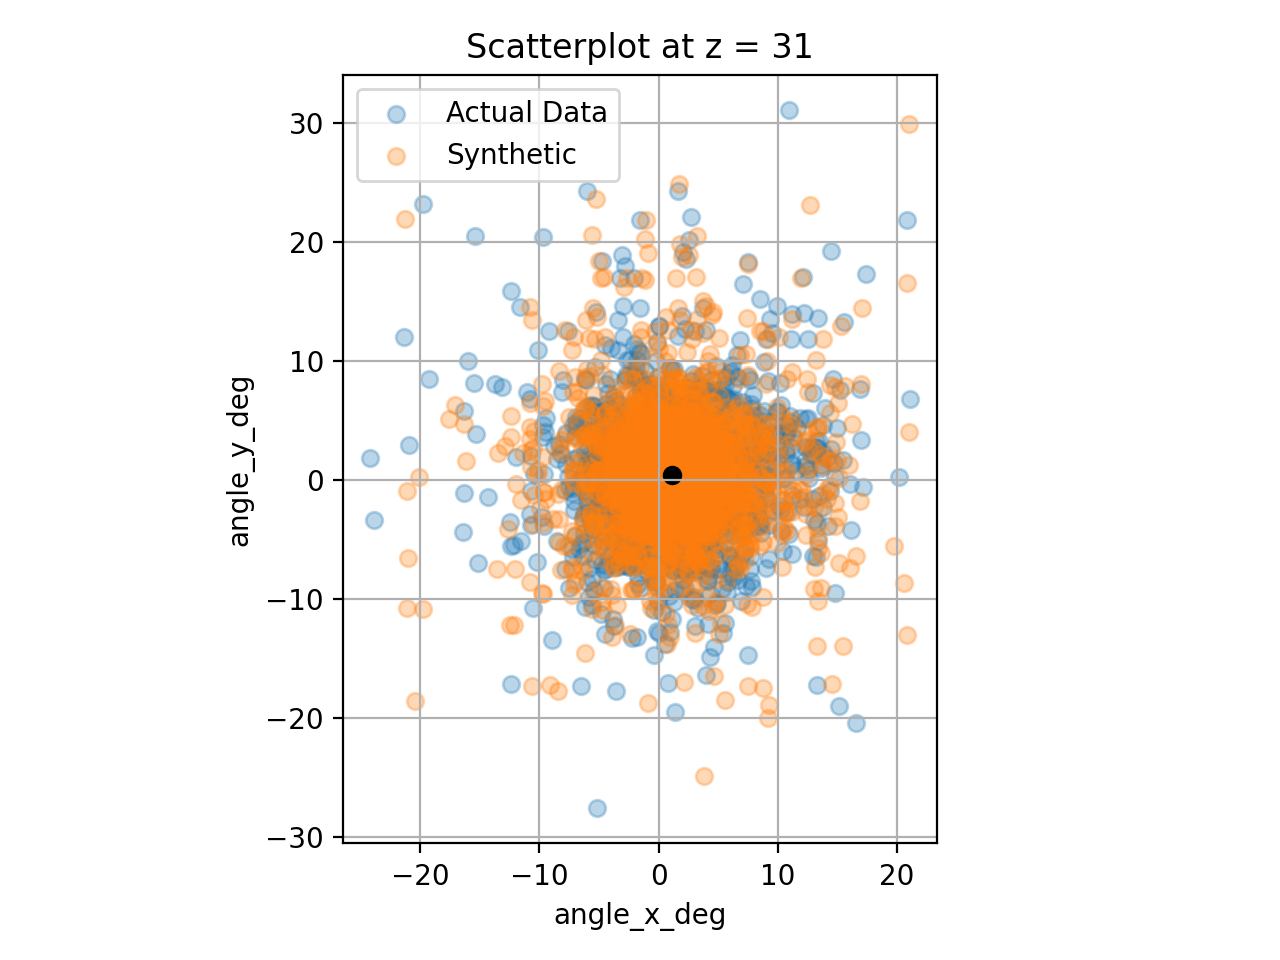
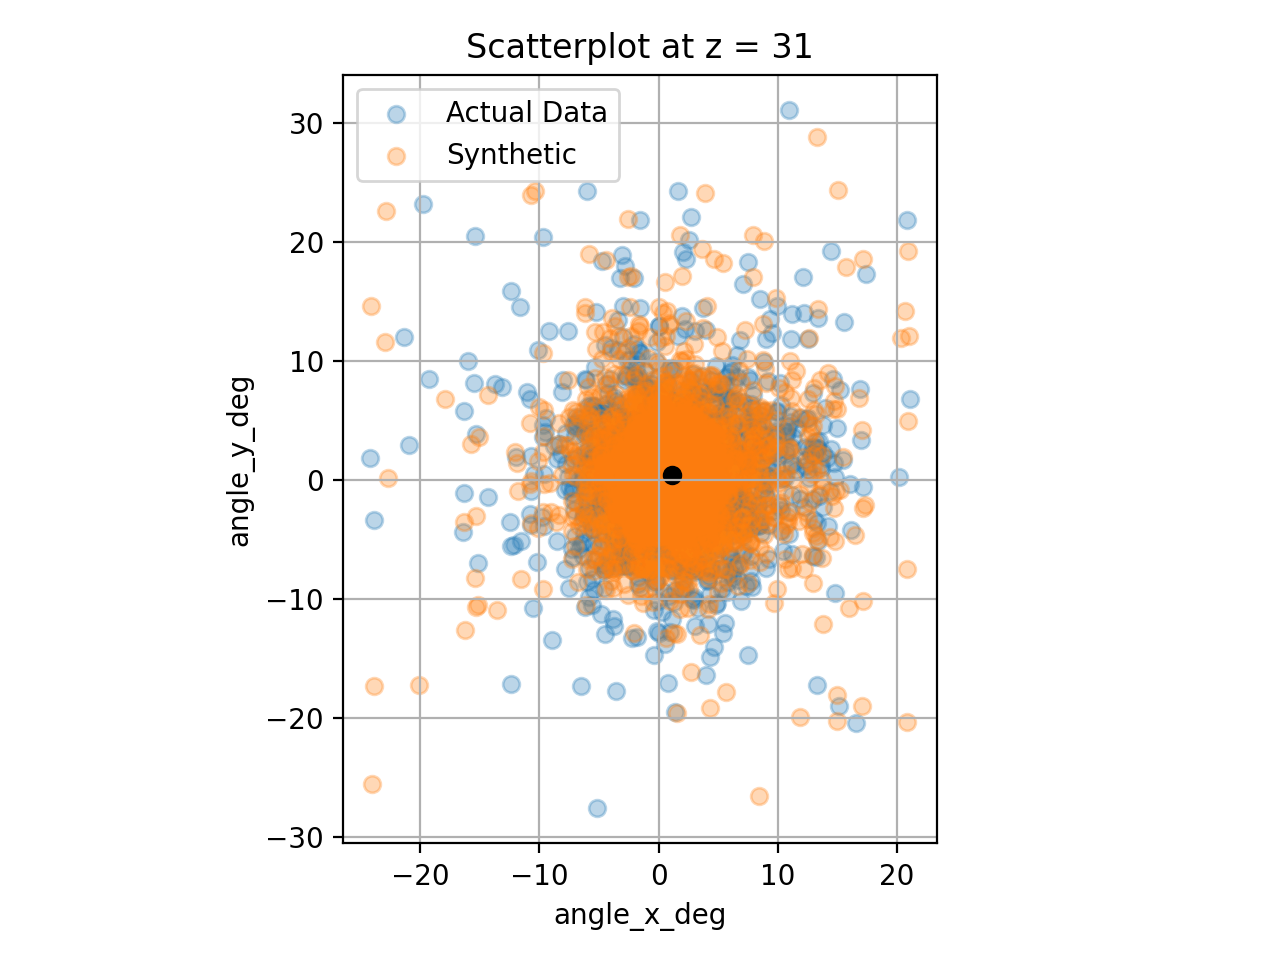
Optimized depth memory code
Replaced tau with rho, reduced depth memory to student method only

diff --git a/scrips/main.py b/scrips/main.py
@@ -74,19 +74,20 @@ for z in zz:    #Iterate by layer
     df_z = sort(df,z,par_1,par_2) #Nested list of x, y tilts for the layer
     for i,model in enumerate(cop_models): #Iterate by copula model
         data_sim_arr[i,z], cop = bivariate_copula(df_z,n_fibers,model=model) #Construct a copula for layer tilts      
-        if z > 1:    
-            mega_array = np.concatenate([data_sim_arr[i,z-1], data_sim_arr[i,z]], axis=1) #Array of tilts of previous and current layers
+        if z > 1 and i==1:    
+            #mega_array = np.concatenate([data_sim_arr[i,z-1], data_sim_arr[i,z]], axis=1) #Array of tilts of previous and current layers
             #Get Kendall's Tau betweens layers
-            xtau = get_correlation(mega_array[:, [0,2]])
-            ytau = get_correlation(mega_array[:, [1,3]])
+            xtau = pv.wdm(data_sim_arr[i,z-1][:,0], data_sim_arr[i,z][:,0], 'rho')
+            ytau = pv.wdm(data_sim_arr[i,z-1][:,1], data_sim_arr[i,z][:,1], 'rho')
             #Set tilt angles using depth memory
-            xtilt = mega_array[:,0] * xtau + mega_array[:,2] * (1-xtau)
-            ytilt = mega_array[:,1] * ytau + mega_array[:,3] * (1-ytau)
+            xtilt = data_sim_arr[i,z-1][:,0] * xtau + data_sim_arr[i,z][:,0] * (1-xtau)
+            ytilt = data_sim_arr[i,z-1][:,1] * ytau + data_sim_arr[i,z][:,1] * (1-ytau)
             data_sim_arr[i,z] = np.concatenate([np.reshape(xtilt, (-1, 1)), np.reshape(ytilt, (-1, 1))], axis=1)
         elif z==1:
             data_sim_arr[i,0] = data_sim_arr[i,1] #Backwards fill data to initial layer
         cop_lst[i].append(cop)  #Add the copula to the list
-        
+
+
 for cops in cop_lst:
     print(f'Mean of {cops[0].family} AIC: {sum(cop.aic() for cop in cops)/len(cops):.2f}')
 
